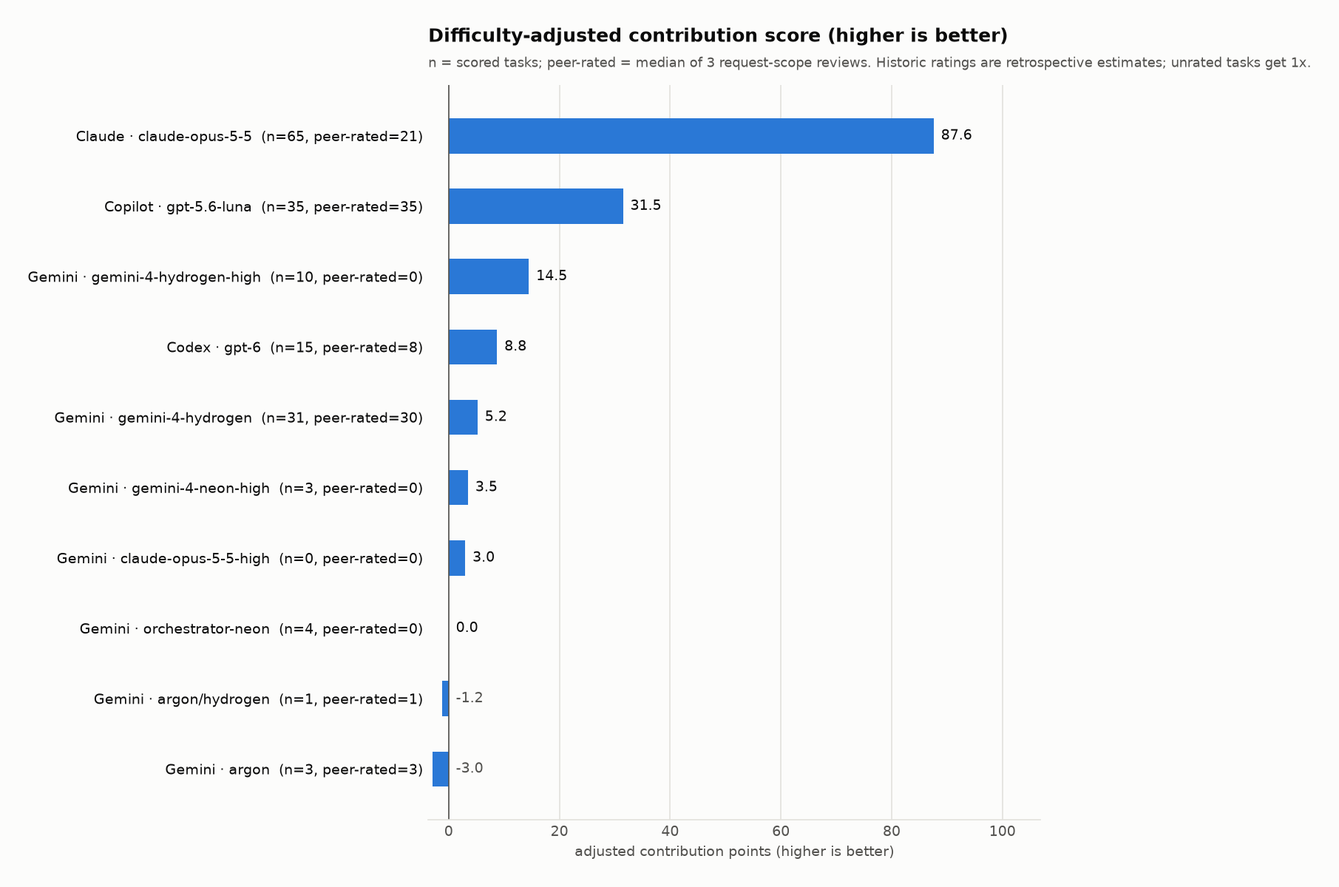
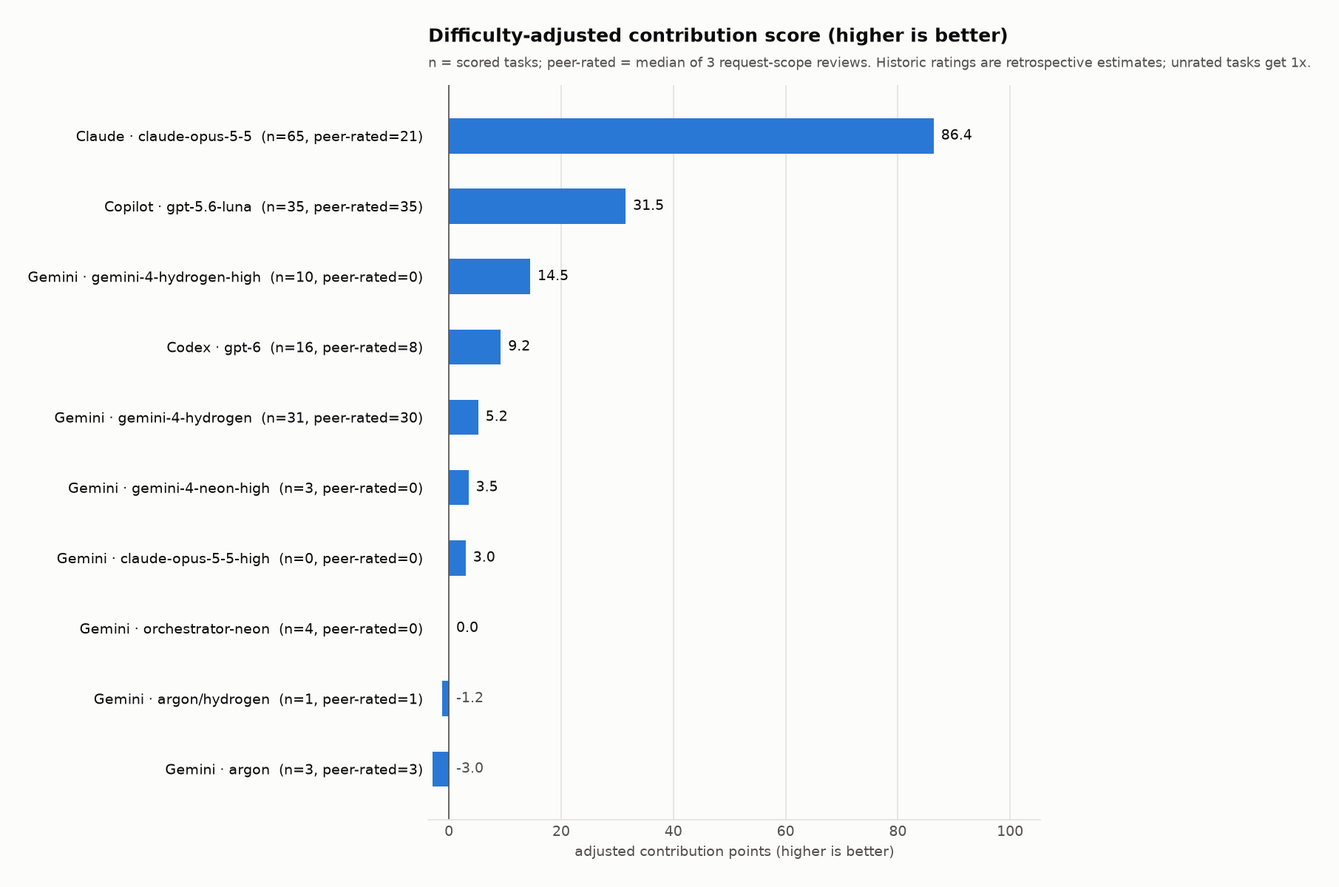
Stop indoor rain particle effects

diff --git a/Docs/Bot/bot-lab.html b/Docs/Bot/bot-lab.html
@@ -692,8 +692,8 @@ body.gifmode .wrap { display: none; }
           <div id="proto-desc" class="card" style="margin-top:4px"></div>
           <div class="readout">
             <div class="stat"><div class="k">Board rows</div><div class="v">B1–B85 + P1–P5</div></div>
-            <div class="stat"><div class="k">Ledger rows</div><div class="v">167 non-open task rows · 1 open · 70 bugs</div></div>
-            <div class="stat"><div class="k">Bugs caught before you</div><div class="v">38 of 70</div></div>
+            <div class="stat"><div class="k">Ledger rows</div><div class="v">168 non-open task rows · 1 open · 71 bugs</div></div>
+            <div class="stat"><div class="k">Bugs caught before you</div><div class="v">38 of 71</div></div>
             <div class="stat"><div class="k">Running now</div><div class="v">See AGENT_COORDINATION.md</div></div>
           </div>
         </div>
@@ -701,7 +701,7 @@ body.gifmode .wrap { display: none; }
     </section>
 <section id="ai-quality" class="bb" aria-labelledby="h-ai-quality">
       <div class="head"><span class="num">19 · MEASURE</span><h2 id="h-ai-quality">Who wrote what, and what broke</h2><span class="src">data/tasks.csv · data/bugs.csv · analysis/analyze.py</span>
-        <p>The current ledgers contain 168 task rows (167 non-open, 1 open) and 70 bug rows. Tasks retain agent/model and source evidence; bug records distinguish escaped defects, review catches, and pre-push breaks. Scores use peer-rated task difficulty (B66). There is no hour-based score: measured active duration, exact context resets, and raw client API tokens are not exported to this repository, so missing telemetry stays unrecorded.</p></div>
+        <p>The current ledgers contain 169 task rows (168 non-open, 1 open) and 71 bug rows. Tasks retain agent/model and source evidence; bug records distinguish escaped defects, review catches, and pre-push breaks. Scores use peer-rated task difficulty (B66). There is no hour-based score: measured active duration, exact context resets, and raw client API tokens are not exported to this repository, so missing telemetry stays unrecorded.</p></div>
       <div class="instrument">
         <canvas id="cv-quality" aria-label="Bar chart of contribution score and defect rates by agent and model"></canvas>
         <div class="controls">
@@ -731,10 +731,10 @@ body.gifmode .wrap { display: none; }
             </tr>
           </thead>
           <tbody>
-            <tr style="border-bottom:1px solid var(--line)"><td style="padding:6px 8px"><b>Claude</b> · Claude Code</td><td style="padding:6px 8px">claude-opus-5-5</td><td style="padding:6px 8px">11-16 11:19 → 11-19 01:16 (ET; first/last evidence, not work duration)</td><td style="padding:6px 8px">6 documented limit/stop events; exact context-reset count not recorded. 104 developer/board prompt sections.</td><td style="padding:6px 8px">65 rows (65 non-open); 12 escaped attributed; 19 review + 3 pre-push findings</td><td style="padding:6px 8px">Raw API token totals and measured active work time are tool-unreported.</td></tr>
+            <tr style="border-bottom:1px solid var(--line)"><td style="padding:6px 8px"><b>Claude</b> · Claude Code</td><td style="padding:6px 8px">claude-opus-5-5</td><td style="padding:6px 8px">11-16 11:19 → 11-19 01:16 (ET; first/last evidence, not work duration)</td><td style="padding:6px 8px">6 documented limit/stop events; exact context-reset count not recorded. 104 developer/board prompt sections.</td><td style="padding:6px 8px">65 rows (65 non-open); 13 escaped attributed; 19 review + 3 pre-push findings</td><td style="padding:6px 8px">Raw API token totals and measured active work time are tool-unreported.</td></tr>
             <tr style="border-bottom:1px solid var(--line)"><td style="padding:6px 8px"><b>Gemini</b> · Antigravity</td><td style="padding:6px 8px">argon; argon/hydrogen; gemini-4-hydrogen; gemini-4-hydrogen-high; gemini-4-neon-high; orchestrator-neon; claude-opus-5-5-high</td><td style="padding:6px 8px">11-16 23:44 → 11-18 22:09 (ET; first/last evidence, not work duration)</td><td style="padding:6px 8px">2 documented quota events: Argon → Hydrogen at 02:24; old Hydrogen-high conversation rejected at 09:20 (157h30m reset), new conversation at 09:22. Exact context-reset count not recorded. 88 developer/board sections + 4 Claude-to-Gemini handoff sections.</td><td style="padding:6px 8px">53 rows (52 non-open, 1 open); 11 escaped attributed; 9 review + 0 pre-push findings</td><td style="padding:6px 8px">Raw API token totals and measured active work time are tool-unreported.</td></tr>
             <tr style="border-bottom:1px solid var(--line)"><td style="padding:6px 8px"><b>Copilot</b> · GitHub Copilot Chat</td><td style="padding:6px 8px">gpt-5.6-luna</td><td style="padding:6px 8px">11-17 23:12 → 11-18 02:40 (ET; first/last evidence, not work duration)</td><td style="padding:6px 8px">1 user-reported monthly limit stop at 02:40; exact context-reset count not recorded. 1 developer/board section + 4 agent-to-Copilot prompt sections.</td><td style="padding:6px 8px">35 rows (35 non-open, 3 reopened, 1 partial); 2 escaped attributed; 6 review + 0 pre-push findings</td><td style="padding:6px 8px">Raw API token totals and measured active work time are tool-unreported.</td></tr>
-            <tr style="border-bottom:1px solid var(--line)"><td style="padding:6px 8px"><b>Codex</b> · OpenAI Codex</td><td style="padding:6px 8px">gpt-6</td><td style="padding:6px 8px">11-18 01:54 → 11-19 02:50 (ET; first/last evidence, not work duration)</td><td style="padding:6px 8px">No limit-stop event recorded in the available sources; exact context-reset count not recorded. 0 headings routed to Codex in PROMPTS.md; direct user requests are not captured in that file.</td><td style="padding:6px 8px">15 rows (15 non-open, 2 reopened); 0 escaped attributed; 1 review + 0 pre-push findings</td><td style="padding:6px 8px">Raw API token totals and measured active work time are tool-unreported.</td></tr>
+            <tr style="border-bottom:1px solid var(--line)"><td style="padding:6px 8px"><b>Codex</b> · OpenAI Codex</td><td style="padding:6px 8px">gpt-6</td><td style="padding:6px 8px">11-18 01:54 → 11-19 03:17 (ET; first/last evidence, not work duration)</td><td style="padding:6px 8px">No limit-stop event recorded in the available sources; exact context-reset count not recorded. 0 headings routed to Codex in PROMPTS.md; direct user requests are not captured in that file.</td><td style="padding:6px 8px">16 rows (16 non-open, 2 reopened); 0 escaped attributed; 1 review + 0 pre-push findings</td><td style="padding:6px 8px">Raw API token totals and measured active work time are tool-unreported.</td></tr>
           </tbody>
           </table>
 
@@ -746,7 +746,7 @@ body.gifmode .wrap { display: none; }
           <tbody>
             <tr><td class="num">v1: before 11-17 23:25</td><td class="num">23</td><td class="num">13.8</td><td class="num">6.0</td><td class="num">1</td><td class="num">0.4</td></tr>
             <tr><td class="num">v2: 11-17 23:25 to 11-18 00:05</td><td class="num">15</td><td class="num">2.0</td><td class="num">1.3</td><td class="num">8</td><td class="num">5.3</td></tr>
-            <tr><td class="num">v3: after 11-18 00:05</td><td class="num">129</td><td class="num">9.9</td><td class="num">0.8</td><td class="num">29</td><td class="num">2.2</td></tr>
+            <tr><td class="num">v3: after 11-18 00:05</td><td class="num">130</td><td class="num">10.5</td><td class="num">0.8</td><td class="num">29</td><td class="num">2.2</td></tr>
           </tbody>
           </table>
         <p class="note">Regenerated from the current task and bug ledgers on 2026-11-19; attribution gaps remain visible instead of being assigned to a model.</p>
@@ -2734,10 +2734,10 @@ requestAnimationFrame(frame);
 
   // ---------------- TAB 3: QUALITY METRICS CHART (ledger-derived, no time estimates) ----------------
   const QUALITY_ROWS = [
-    {"lbl": "Claude · opus-5-5", "score": 87.6, "tasks": 65, "escaped": 1.5, "caught": 22, "c": "#b388ff"},
+    {"lbl": "Claude · opus-5-5", "score": 86.4, "tasks": 65, "escaped": 1.6, "caught": 22, "c": "#b388ff"},
     {"lbl": "Copilot · gpt-5.6-luna", "score": 31.5, "tasks": 35, "escaped": 0.6, "caught": 6, "c": "#5cc46a"},
     {"lbl": "Gemini · hydrogen-high", "score": 14.5, "tasks": 10, "escaped": 0.0, "caught": 6, "c": "#47d9ff"},
-    {"lbl": "Codex · gpt-6", "score": 8.8, "tasks": 15, "escaped": 0.0, "caught": 1, "c": "#2dd4bf"},
+    {"lbl": "Codex · gpt-6", "score": 9.2, "tasks": 16, "escaped": 0.0, "caught": 1, "c": "#2dd4bf"},
     {"lbl": "Gemini · hydrogen", "score": 5.2, "tasks": 31, "escaped": 1.4, "caught": 1, "c": "#6eaee6"},
     {"lbl": "Gemini · neon-high", "score": 3.5, "tasks": 3, "escaped": 0.0, "caught": 1, "c": "#e8a33d"},
     {"lbl": "Gemini · opus-5-5-high", "score": 3.0, "tasks": 0, "escaped": 0.0, "caught": 0, "c": "#e2b54a"},
@@ -2771,6 +2771,7 @@ requestAnimationFrame(frame);
 
   // ---------------- TAB 3: TASK LOG WITH SOURCE ----------------
   const TASKS_LOG = [
+    {"id": "X16", "when": "2026-11-19 03:17", "agent": "Codex", "board": "B108", "task": "Stop rain streaks appearing inside roofed spaces", "src": "user request 03:10; WeatherSystem indoor roof-probe gating; BuildAllAndPlayerBatch succeeded 03:16"},
     {"id": "X14", "when": "2026-11-19 02:32", "agent": "Codex", "board": "B107", "task": "Slower distinct weapon fire rates with damage tuned to keep body TTK close", "src": "user request 02:22; five distinct WeaponSpec rates + damage thresholds; standalone player build succeeded 02:56"},
     {"id": "X15", "when": "2026-11-19 02:32", "agent": "Codex", "board": "B91", "task": "Apply ADS sway reduction through active Kinemation SwayLayer profile settings", "src": "user reported prior sway change did not help; LR2ContentBuilder persists 22% ADS mask"},
     {"id": "X11", "when": "2026-11-19 02:06", "agent": "Codex", "board": "B91", "task": "Tune ADS sway in Kinemation humanoid profiles with much lower vertical weapon movement", "src": "user said the sway change did not help; direct profile assets are ignored by git and were not a durable build setting"},

diff --git a/Docs/Bot/src/bot-lab.html b/Docs/Bot/src/bot-lab.html
@@ -682,8 +682,8 @@ body.gifmode .wrap { display: none; }
           <div id="proto-desc" class="card" style="margin-top:4px"></div>
           <div class="readout">
             <div class="stat"><div class="k">Board rows</div><div class="v">B1–B85 + P1–P5</div></div>
-            <div class="stat"><div class="k">Ledger rows</div><div class="v">167 non-open task rows · 1 open · 70 bugs</div></div>
-            <div class="stat"><div class="k">Bugs caught before you</div><div class="v">38 of 70</div></div>
+            <div class="stat"><div class="k">Ledger rows</div><div class="v">168 non-open task rows · 1 open · 71 bugs</div></div>
+            <div class="stat"><div class="k">Bugs caught before you</div><div class="v">38 of 71</div></div>
             <div class="stat"><div class="k">Running now</div><div class="v">See AGENT_COORDINATION.md</div></div>
           </div>
         </div>
@@ -691,7 +691,7 @@ body.gifmode .wrap { display: none; }
     </section>
 <section id="ai-quality" class="bb" aria-labelledby="h-ai-quality">
       <div class="head"><span class="num">19 · MEASURE</span><h2 id="h-ai-quality">Who wrote what, and what broke</h2><span class="src">data/tasks.csv · data/bugs.csv · analysis/analyze.py</span>
-        <p>The current ledgers contain 168 task rows (167 non-open, 1 open) and 70 bug rows. Tasks retain agent/model and source evidence; bug records distinguish escaped defects, review catches, and pre-push breaks. Scores use peer-rated task difficulty (B66). There is no hour-based score: measured active duration, exact context resets, and raw client API tokens are not exported to this repository, so missing telemetry stays unrecorded.</p></div>
+        <p>The current ledgers contain 169 task rows (168 non-open, 1 open) and 71 bug rows. Tasks retain agent/model and source evidence; bug records distinguish escaped defects, review catches, and pre-push breaks. Scores use peer-rated task difficulty (B66). There is no hour-based score: measured active duration, exact context resets, and raw client API tokens are not exported to this repository, so missing telemetry stays unrecorded.</p></div>
       <div class="instrument">
         <canvas id="cv-quality" aria-label="Bar chart of contribution score and defect rates by agent and model"></canvas>
         <div class="controls">
@@ -721,10 +721,10 @@ body.gifmode .wrap { display: none; }
             </tr>
           </thead>
           <tbody>
-            <tr style="border-bottom:1px solid var(--line)"><td style="padding:6px 8px"><b>Claude</b> · Claude Code</td><td style="padding:6px 8px">claude-opus-5-5</td><td style="padding:6px 8px">11-16 11:19 → 11-19 01:16 (ET; first/last evidence, not work duration)</td><td style="padding:6px 8px">6 documented limit/stop events; exact context-reset count not recorded. 104 developer/board prompt sections.</td><td style="padding:6px 8px">65 rows (65 non-open); 12 escaped attributed; 19 review + 3 pre-push findings</td><td style="padding:6px 8px">Raw API token totals and measured active work time are tool-unreported.</td></tr>
+            <tr style="border-bottom:1px solid var(--line)"><td style="padding:6px 8px"><b>Claude</b> · Claude Code</td><td style="padding:6px 8px">claude-opus-5-5</td><td style="padding:6px 8px">11-16 11:19 → 11-19 01:16 (ET; first/last evidence, not work duration)</td><td style="padding:6px 8px">6 documented limit/stop events; exact context-reset count not recorded. 104 developer/board prompt sections.</td><td style="padding:6px 8px">65 rows (65 non-open); 13 escaped attributed; 19 review + 3 pre-push findings</td><td style="padding:6px 8px">Raw API token totals and measured active work time are tool-unreported.</td></tr>
             <tr style="border-bottom:1px solid var(--line)"><td style="padding:6px 8px"><b>Gemini</b> · Antigravity</td><td style="padding:6px 8px">argon; argon/hydrogen; gemini-4-hydrogen; gemini-4-hydrogen-high; gemini-4-neon-high; orchestrator-neon; claude-opus-5-5-high</td><td style="padding:6px 8px">11-16 23:44 → 11-18 22:09 (ET; first/last evidence, not work duration)</td><td style="padding:6px 8px">2 documented quota events: Argon → Hydrogen at 02:24; old Hydrogen-high conversation rejected at 09:20 (157h30m reset), new conversation at 09:22. Exact context-reset count not recorded. 88 developer/board sections + 4 Claude-to-Gemini handoff sections.</td><td style="padding:6px 8px">53 rows (52 non-open, 1 open); 11 escaped attributed; 9 review + 0 pre-push findings</td><td style="padding:6px 8px">Raw API token totals and measured active work time are tool-unreported.</td></tr>
             <tr style="border-bottom:1px solid var(--line)"><td style="padding:6px 8px"><b>Copilot</b> · GitHub Copilot Chat</td><td style="padding:6px 8px">gpt-5.6-luna</td><td style="padding:6px 8px">11-17 23:12 → 11-18 02:40 (ET; first/last evidence, not work duration)</td><td style="padding:6px 8px">1 user-reported monthly limit stop at 02:40; exact context-reset count not recorded. 1 developer/board section + 4 agent-to-Copilot prompt sections.</td><td style="padding:6px 8px">35 rows (35 non-open, 3 reopened, 1 partial); 2 escaped attributed; 6 review + 0 pre-push findings</td><td style="padding:6px 8px">Raw API token totals and measured active work time are tool-unreported.</td></tr>
-            <tr style="border-bottom:1px solid var(--line)"><td style="padding:6px 8px"><b>Codex</b> · OpenAI Codex</td><td style="padding:6px 8px">gpt-6</td><td style="padding:6px 8px">11-18 01:54 → 11-19 02:50 (ET; first/last evidence, not work duration)</td><td style="padding:6px 8px">No limit-stop event recorded in the available sources; exact context-reset count not recorded. 0 headings routed to Codex in PROMPTS.md; direct user requests are not captured in that file.</td><td style="padding:6px 8px">15 rows (15 non-open, 2 reopened); 0 escaped attributed; 1 review + 0 pre-push findings</td><td style="padding:6px 8px">Raw API token totals and measured active work time are tool-unreported.</td></tr>
+            <tr style="border-bottom:1px solid var(--line)"><td style="padding:6px 8px"><b>Codex</b> · OpenAI Codex</td><td style="padding:6px 8px">gpt-6</td><td style="padding:6px 8px">11-18 01:54 → 11-19 03:17 (ET; first/last evidence, not work duration)</td><td style="padding:6px 8px">No limit-stop event recorded in the available sources; exact context-reset count not recorded. 0 headings routed to Codex in PROMPTS.md; direct user requests are not captured in that file.</td><td style="padding:6px 8px">16 rows (16 non-open, 2 reopened); 0 escaped attributed; 1 review + 0 pre-push findings</td><td style="padding:6px 8px">Raw API token totals and measured active work time are tool-unreported.</td></tr>
           </tbody>
           </table>
 
@@ -736,7 +736,7 @@ body.gifmode .wrap { display: none; }
           <tbody>
             <tr><td class="num">v1: before 11-17 23:25</td><td class="num">23</td><td class="num">13.8</td><td class="num">6.0</td><td class="num">1</td><td class="num">0.4</td></tr>
             <tr><td class="num">v2: 11-17 23:25 to 11-18 00:05</td><td class="num">15</td><td class="num">2.0</td><td class="num">1.3</td><td class="num">8</td><td class="num">5.3</td></tr>
-            <tr><td class="num">v3: after 11-18 00:05</td><td class="num">129</td><td class="num">9.9</td><td class="num">0.8</td><td class="num">29</td><td class="num">2.2</td></tr>
+            <tr><td class="num">v3: after 11-18 00:05</td><td class="num">130</td><td class="num">10.5</td><td class="num">0.8</td><td class="num">29</td><td class="num">2.2</td></tr>
           </tbody>
           </table>
         <p class="note">Regenerated from the current task and bug ledgers on 2026-11-19; attribution gaps remain visible instead of being assigned to a model.</p>
@@ -2724,10 +2724,10 @@ requestAnimationFrame(frame);
 
   // ---------------- TAB 3: QUALITY METRICS CHART (ledger-derived, no time estimates) ----------------
   const QUALITY_ROWS = [
-    {"lbl": "Claude · opus-5-5", "score": 87.6, "tasks": 65, "escaped": 1.5, "caught": 22, "c": "#b388ff"},
+    {"lbl": "Claude · opus-5-5", "score": 86.4, "tasks": 65, "escaped": 1.6, "caught": 22, "c": "#b388ff"},
     {"lbl": "Copilot · gpt-5.6-luna", "score": 31.5, "tasks": 35, "escaped": 0.6, "caught": 6, "c": "#5cc46a"},
     {"lbl": "Gemini · hydrogen-high", "score": 14.5, "tasks": 10, "escaped": 0.0, "caught": 6, "c": "#47d9ff"},
-    {"lbl": "Codex · gpt-6", "score": 8.8, "tasks": 15, "escaped": 0.0, "caught": 1, "c": "#2dd4bf"},
+    {"lbl": "Codex · gpt-6", "score": 9.2, "tasks": 16, "escaped": 0.0, "caught": 1, "c": "#2dd4bf"},
     {"lbl": "Gemini · hydrogen", "score": 5.2, "tasks": 31, "escaped": 1.4, "caught": 1, "c": "#6eaee6"},
     {"lbl": "Gemini · neon-high", "score": 3.5, "tasks": 3, "escaped": 0.0, "caught": 1, "c": "#e8a33d"},
     {"lbl": "Gemini · opus-5-5-high", "score": 3.0, "tasks": 0, "escaped": 0.0, "caught": 0, "c": "#e2b54a"},
@@ -2761,6 +2761,7 @@ requestAnimationFrame(frame);
 
   // ---------------- TAB 3: TASK LOG WITH SOURCE ----------------
   const TASKS_LOG = [
+    {"id": "X16", "when": "2026-11-19 03:17", "agent": "Codex", "board": "B108", "task": "Stop rain streaks appearing inside roofed spaces", "src": "user request 03:10; WeatherSystem indoor roof-probe gating; BuildAllAndPlayerBatch succeeded 03:16"},
     {"id": "X14", "when": "2026-11-19 02:32", "agent": "Codex", "board": "B107", "task": "Slower distinct weapon fire rates with damage tuned to keep body TTK close", "src": "user request 02:22; five distinct WeaponSpec rates + damage thresholds; standalone player build succeeded 02:56"},
     {"id": "X15", "when": "2026-11-19 02:32", "agent": "Codex", "board": "B91", "task": "Apply ADS sway reduction through active Kinemation SwayLayer profile settings", "src": "user reported prior sway change did not help; LR2ContentBuilder persists 22% ADS mask"},
     {"id": "X11", "when": "2026-11-19 02:06", "agent": "Codex", "board": "B91", "task": "Tune ADS sway in Kinemation humanoid profiles with much lower vertical weapon movement", "src": "user said the sway change did not help; direct profile assets are ignored by git and were not a durable build setting"},

diff --git a/Assets/LR2/Runtime/World/WeatherSystem.cs b/Assets/LR2/Runtime/World/WeatherSystem.cs
@@ -112,6 +112,7 @@ namespace LR2.World
         private AudioClip _procThunderClip;
         private ParticleSystem.EmitParams _splashEmit;
         private ParticleSystem _rainNear; // B93
+        private bool _cameraIndoors;
         private ParticleSystem.EmitParams _rippleEmit;
         private float _splashAcc;
         private readonly VisorDrop[] _visorDrops = new VisorDrop[18];
@@ -275,33 +276,43 @@ namespace LR2.World
 
         private void UpdateRain(float amount)
         {
+            var cam = Camera.main;
+            _cameraIndoors = cam != null && LR2Audio.IsIndoors(cam.transform.position);
+            float visibleRain = _cameraIndoors ? 0f : amount;
+
             if (rain != null)
             {
-                var cam = Camera.main;
-                if (cam != null) rain.transform.position = cam.transform.position + Vector3.up * 14f + cam.transform.forward * 5f;
+                // The camera-following volume otherwise drops below roofs and spawns rain indoors.
+                if (cam != null && !_cameraIndoors)
+                    rain.transform.position = cam.transform.position + Vector3.up * 14f + cam.transform.forward * 5f;
                 var em = rain.emission;
-                em.rateOverTime = amount * maxRainRate;
+                em.rateOverTime = visibleRain * maxRainRate;
                 var vel = rain.velocityOverLifetime;
                 float wx = Wind * 3.4f;
                 vel.x = new ParticleSystem.MinMaxCurve(wx * 0.85f, wx * 1.15f);
                 vel.y = new ParticleSystem.MinMaxCurve(-22f, -18f);
                 vel.z = new ParticleSystem.MinMaxCurve(-0.35f, 0.35f);
-                if (amount > 0.01f && !rain.isPlaying) rain.Play();
+                if (_cameraIndoors && (rain.isPlaying || rain.particleCount > 0))
+                    rain.Stop(true, ParticleSystemStopBehavior.StopEmittingAndClear);
+                else if (visibleRain > 0.01f && !rain.isPlaying) rain.Play();
                 else if (amount <= 0.01f && rain.isPlaying) rain.Stop();
                 if (_rainNear != null)
                 {
-                    if (cam != null) _rainNear.transform.position = cam.transform.position + Vector3.up * 5f + cam.transform.forward * 2.5f;
+                    if (cam != null && !_cameraIndoors)
+                        _rainNear.transform.position = cam.transform.position + Vector3.up * 5f + cam.transform.forward * 2.5f;
                     var nem = _rainNear.emission;
-                    nem.rateOverTime = amount * 950f;
+                    nem.rateOverTime = visibleRain * 950f;
                     var nv = _rainNear.velocityOverLifetime;
                     nv.x = new ParticleSystem.MinMaxCurve(wx * 0.85f, wx * 1.15f);
-                    if (amount > 0.01f && !_rainNear.isPlaying) _rainNear.Play();
+                    if (_cameraIndoors && (_rainNear.isPlaying || _rainNear.particleCount > 0))
+                        _rainNear.Stop(true, ParticleSystemStopBehavior.StopEmittingAndClear);
+                    else if (visibleRain > 0.01f && !_rainNear.isPlaying) _rainNear.Play();
                     else if (amount <= 0.01f && _rainNear.isPlaying) _rainNear.Stop();
                 }
             }
             if (_rainSource != null)
             {
-                bool indoors = LR2Audio.IsIndoors(LR2Audio.ListenerPosition);
+                bool indoors = cam != null ? _cameraIndoors : LR2Audio.IsIndoors(LR2Audio.ListenerPosition);
                 float mix = LR2Audio.CategoryVolume(AudioCategory.Ambience) / 0.68f;
                 _rainSource.volume = Mathf.Lerp(_rainSource.volume, amount * rainVolume * mix * (indoors ? 0.45f : 1f), Time.deltaTime * 2f);
                 var lp = _rainSource.GetComponent<AudioLowPassFilter>();
@@ -331,7 +342,6 @@ namespace LR2.World
             if (Time.time >= _thunderRainUntil) _thunderStart = Time.time;
             _thunderRainUntil = Mathf.Max(_thunderRainUntil, Time.time + Mathf.Max(4f, durationSec));
             _thunderRainBoost = Mathf.Max(_thunderRainBoost, Mathf.Clamp01(intensity));
-            if (rain != null && !rain.isPlaying) rain.Play();
             if (withFlash) _flash = Mathf.Max(_flash, 0.75f);
         }
 
@@ -536,6 +546,11 @@ namespace LR2.World
             if (rainAmount <= 0.04f || _splashBurstPS == null || _puddleRipplePS == null) return;
             var cam = Camera.main;
             if (cam == null) return;
+            if (_cameraIndoors)
+            {
+                _splashAcc = 0f;
+                return;
+            }
 
             // Emit real ground crown splashes & concentric water ripples strictly on outdoor surfaces
             float targetPerSec = Mathf.Lerp(60f, 340f, rainAmount); // B97: splashes you can see (10-90/s before)
@@ -748,8 +763,7 @@ namespace LR2.World
             var cam = Camera.main;
             if (cam == null) return;
             // Subtle peripheral visor droplets only when outdoors under open rain
-            if (Physics.Raycast(cam.transform.position + Vector3.up * 0.25f, Vector3.up, 28f, LR2.Core.LR2Layers.EnvironmentMask, QueryTriggerInteraction.Ignore))
-                return;
+            if (_cameraIndoors) return;
 
             if (!_visorInited)
             {

diff --git a/Assets/LR2/Editor/LR2BuildPipeline.cs b/Assets/LR2/Editor/LR2BuildPipeline.cs
@@ -159,7 +159,7 @@ namespace LR2.EditorTools
         [MenuItem("LR2/Configure Build Icon & Version", priority = 35)]
         public static void ConfigureBuildIdentity()
         {
-            PlayerSettings.bundleVersion = "11.19.26.2";
+            PlayerSettings.bundleVersion = "11.19.26.3";
             const string iconPath = "Assets/LR2/UI/Icons/LR2_AppIcon.png";
             Directory.CreateDirectory(Path.GetDirectoryName(iconPath));
             if (!File.Exists(iconPath))

diff --git a/AGENT_COORDINATION.md b/AGENT_COORDINATION.md
@@ -94,8 +94,8 @@ Active now: **Claude** (back) and **Codex**. Gemini and Copilot are out. New spl
 
 ## 1. Now
 
-UNITY: free (Codex isolated worker PID 20504 exited 02:56; BuildAllAndPlayerBatch/player result Succeeded)
-PUSH: 14f1ccd by Codex 02:59 (B87/B91/B107 + B56; 11.19.26.2 BuildAllAndPlayerBatch succeeded 02:56; 4 headless RenderTexture.Create errors; visual feel review pending)
+UNITY: free (isolated worker PID 18048 exited; main editor PID 55788 remains open)
+PUSH: previous 14f1ccd/4544d77 by Codex; B108 11.19.26.3 player build succeeded 03:16, scoped commit/push pending
 BUDGET: Claude OK (back 04:13) · Gemini OK (09:23) · Copilot ? · Codex OK (02:50)   <- each agent edits its own part: OK / LOW / OUT until HH:MM. At LOW, hand off first (Docs/AI_Collaboration/CONTINUITY.md).
 
 | Agent | State | Doing now | Next | Updated |
@@ -103,7 +103,7 @@ BUDGET: Claude OK (back 04:13) · Gemini OK (09:23) · Copilot ? · Codex OK (02
 | Claude | IN PROGRESS | User 00:27 batch, all other models down: B90 movement, B91 ADS sight, B89 bot overshoot/pre-fire, B88 score panel, B96 minimap, B100 CTF zone, B87 fire, B93 rain, B97 particles, B92 lights, B99 floating props, B95/B98 audio, B94 tac reload, B26 fingers | Push at every stable point; build 11.18.26.7 when Unity is free | 00:31 |
 | Gemini (LEAD) | DOWN (user 00:13: "all other models are down") | User 21:56 request: 2x ADS in/out & FOV zoom sync across all 5 weapons (`WeaponDefinition`, `LR2ContentBuilder`, `LR2Firearm`, `SoldierController`, `LR2QAExtraChecks`/`LR2QABotRunner`); `dotnet build` 0 errors; running `BuildWeapons` + visible `Saltworks` QA | Release `UNITY:` lock, inspect QA telemetry, confirm feel/player build request with user | 00:31 (Claude) |
 | Copilot | IN PROGRESS | B54 evidence corrected/pushed; visible pose check #7 captured AK-12 + MK23 evidence; Codex auditing README | Checkpoint: B60.1 baseline CSV + B60.9 known-bad fixtures compile; standalone player build succeeded; push in progress | 02:25 |
-| Codex | IN PROGRESS | B91: removed forced post-animation correction; durable Kinemation ADS mask with move Y -0.15 and aim Y -0.12. B87 luminance-derived smoke alpha. B107 distinct slower rates + retuned damage. B56 docs refreshed from ledgers. | record successful player build, commit scoped changes, then push | 02:59 |
+| Codex | READY FOR REVIEW | B108: camera-following rain, splashes, and visor drops are suppressed indoors; Runtime + Editor compile cleanly; BuildAllAndPlayerBatch succeeded (11.19.26.3). | user visual review in a roofed area; push scoped fix | 03:17 |
 
 ## 2. Needs the user
 
@@ -254,6 +254,7 @@ task quality per agent and model (chart in [Docs/AI_Collaboration](Docs/AI_Colla
 | B105 | feature | Realistic banter: censored slang only sometimes, gg at match end, less often (user 01:0x) | Claude | claude-opus-5-5 | - | READY FOR REVIEW | - | 01:13 | Clean + spicy pools (~25 %), revenge/streak lines, gg from 2-4 bots, 9-15 s global gap, 25-40 s per bot. |
 | B106 | feature | Improve the look of the laser (user 01:1x) | Claude | claude-opus-5-5 | - | OPEN | - | 01:13 | WeaponLaser beam + dot. |
 | B107 | tune | Slow all weapon fire rates to distinct game cadences and preserve body-shot TTK with damage tuning (user 02:22) | Codex | gpt-6 | user | READY FOR REVIEW | - | 02:59 | `LR2ContentBuilder.Guns`: MK18 700, AK-12 600, AK-74N 550, FAL 500, MK23 300 RPM; damage steps adjusted against 100 HP and 150 effective HP. Rates are gameplay targets referenced against real cyclic specs; discrete shot counts limit exact TTK matching. Standalone player build succeeded; body-shot feel remains for review. See `specs/B107_Weapon_FireRate_TTK.md`. |
+| B108 | bug | Rain streaks show inside roofed spaces | Codex | gpt-6 | user | READY FOR REVIEW | D71 | 03:10 | Camera-following high and near rain emitters now stop and clear under roofs detected by `LR2Audio.IsIndoors`; indoor splashes and visor drops are suppressed. Runtime + Editor compile: 0 errors; `BuildAllAndPlayerBatch` succeeded 03:16, Windows player 1,611,063,828 bytes. |
 
 ## 4. Ownership (who may edit what)
 
@@ -274,6 +275,7 @@ task quality per agent and model (chart in [Docs/AI_Collaboration](Docs/AI_Colla
 | README screenshots | Gemini captures, Claude picks | `Docs/Media/*` |
 | **Temporary user-requested B67a thermal VFX handoff** (03:39) | Codex | Thermal effects only in `Runtime/Weapons/LR2Firearm.cs`; new `Runtime/FX/HeatHazeEmitter.cs`; flame haze in `Runtime/World/FireHazard.cs` |
 | **Temporary user-requested B70 ADS FOV pacing handoff** (04:02) | Codex | ADS camera transition duration in `Runtime/Weapons/LR2Firearm.cs`; preserve the unrelated Gemini tactical-reload edit |
+| **Temporary user-requested B108 indoor-rain handoff** (03:10) | Codex | `Runtime/World/WeatherSystem.cs`; preserve the outdoor rain, wetness, and weather-audio behavior |
 | **Temporary user-requested B71 death-pose reset handoff** (04:10) | Claude | Reset only reload bridge, retarget inertial/plant history, and camera FOV cache across death/respawn; preserve active Copilot B60b foot-plant edits |
 | **Temporary user-requested B68a laser visibility handoff** (03:41) | Codex | Visibility tuning only in `Runtime/Weapons/WeaponLaser.cs`; preserve green friendly/red enemy palette |
 | **Temporary user-requested B69 TDM label handoff** (03:41) | Codex | Remove the `[CUSTOM]` suffix only from TDM in `Runtime/UI/MainMenuController.cs`; preserve custom rules |
@@ -657,3 +659,5 @@ You are **Codex** (OpenAI Codex CLI / VS Code agent), the fourth agent on the **
 - [Claude claude-opus-5-5 01:13] [READY FOR REVIEW] User batch 00:27-01:17: B87, B88, B89, B90, B91, B93, B96, B97, B100, B101, B105 in code and built; B98 partly (AK reload clips trimmed). OPEN for the next session: B26 grip offsets (C27 data), B92 lights, B94 AK tac reload, B95 grunts/audio, B99 floating props, B102 gun blood, B104 READMEs, B106 laser. The user is near their token limit: push + player build first.
 - [Codex gpt-6 01:32] [OWNERSHIP] [REOPENED] D70: `AdsSightLock` moved the weapon without moving RetargetProxy's visible hand-IK targets; same rigid correction now reaches both hands. Runtime + Editor builds: 0 errors; visible Unity pose review remains.
 - [Codex gpt-6 02:59] [BUILD] [PUSH] `14f1ccd` pushed to `origin/main`; `BuildAllAndPlayerBatch` exited `0`, Windows player result `Succeeded` (4 headless `RenderTexture.Create failed` messages). B87 smoke, B91 ADS sway, and B107 cadence/TTK are ready for user review; Unity lock released.
+- [Codex gpt-6 03:10] [USER HANDOFF] B108: remove camera-following rain from roofed spaces; temporary weather ownership accepted from Gemini while Gemini is down.
+- [Codex gpt-6 03:17] [READY FOR REVIEW] B108: roof probe stops and clears both rain particle systems and suppresses splashes/visor drops indoors. Runtime + Editor compile cleanly; isolated `BuildAllAndPlayerBatch` succeeded at 03:16 (Windows player 1,611,063,828 bytes). D71 marked fixed; visual review still needed. Unity worker PID 18048 exited; main Editor PID 55788 remains open.

diff --git a/Docs/AI_Collaboration/README.md b/Docs/AI_Collaboration/README.md
@@ -301,10 +301,11 @@ another agent stopped it first.
 </picture>
 
 | Agent / model | Raw score | Difficulty-adjusted score | Task rows (non-open / open / reopened) | Peer-rated tasks (retro / pre-work) | Weighted task credit | Bugs found (others / own) | Suggestions (adopted / pending) | Escaped defects, weighted (count) | Escaped per 10 tasks | Review defects in owned work | Pre-push defects in owned work |
-| Claude · claude-opus-5-5 | 87.6 | **87.6** | 65 / 0 / 0 | 21 (21 / 0) | 19.50 | 17 / 5 | 10 / 2 | 9.7 (12) | 1.5 | 7 | 2 |
+|---|---|---|---|---|---|---|---|---|---|---|---|
+| Claude · claude-opus-5-5 | 86.4 | **86.4** | 65 / 0 / 0 | 21 (21 / 0) | 19.50 | 17 / 5 | 10 / 2 | 10.3 (13) | 1.6 | 7 | 2 |
 | Copilot · gpt-5.6-luna | 32.5 | **31.5** | 35 / 0 / 3 | 35 (35 / 0) | 20.50 | 6 / 0 | 0 / 0 | 2.0 (2) | 0.6 | 6 | 0 |
 | Gemini · gemini-4-hydrogen-high | 14.5 | **14.5** | 10 / 0 / 0 | 0 (0 / 0) | 4.50 | 0 / 6 | 0 / 0 | 0.0 (0) | 0.0 | 4 | 0 |
-| Codex · gpt-6 | 8.5 | **8.8** | 15 / 0 / 2 | 8 (8 / 0) | 6.75 | 1 / 0 | 0 / 0 | 0.0 (0) | 0.0 | 2 | 0 |
+| Codex · gpt-6 | 9.0 | **9.2** | 16 / 0 / 2 | 8 (8 / 0) | 7.25 | 1 / 0 | 0 / 0 | 0.0 (0) | 0.0 | 2 | 0 |
 | Gemini · gemini-4-hydrogen | 3.1 | **5.2** | 31 / 1 / 0 | 30 (30 / 0) | 14.62 | 1 / 0 | 0 / 0 | 4.2 (6) | 1.4 | 8 | 0 |
 | Gemini · gemini-4-neon-high | 3.5 | **3.5** | 3 / 0 / 0 | 0 (0 / 0) | 0.50 | 1 / 0 | 0 / 0 | 0.0 (0) | 0.0 | 0 | 0 |
 | Gemini · claude-opus-5-5-high | 3.0 | **3.0** | 0 / 0 / 0 | 0 (0 / 0) | 0.00 | 0 / 0 | 1 / 0 | 0.0 (0) | 0.0 | 0 | 0 |
@@ -331,9 +332,9 @@ another agent stopped it first.
 | **Claude** (Claude Code) | claude-opus-5-5 | 11-16 11:19 → 11-19 01:16 (ET; first/last evidence, not work duration) | 6 documented limit/stop events; exact context-reset count not recorded. 104 developer/board prompt sections. | 65 task rows (65 non-open); 12 attributed escaped defects; 19 review + 3 pre-push findings (17 others / 5 own) | Raw API token totals and measured active work time are tool-unreported. |
 | **Gemini** (Antigravity) | argon; argon/hydrogen; gemini-4-hydrogen; gemini-4-hydrogen-high; gemini-4-neon-high; orchestrator-neon; claude-opus-5-5-high | 11-16 23:44 → 11-18 22:09 (ET; first/last evidence, not work duration) | 2 documented quota events: Argon → Hydrogen at 02:24; old Hydrogen-high conversation rejected at 09:20 (157h30m reset), new conversation at 09:22. Exact context-reset count not recorded. 88 developer/board sections + 4 Claude-to-Gemini handoff sections. | 53 task rows (52 non-open; 1 open); 11 attributed escaped defects; 9 review + 0 pre-push findings (2 others / 7 own) | Raw API token totals and measured active work time are tool-unreported. |
 | **Copilot** (GitHub Copilot Chat) | gpt-5.6-luna | 11-17 23:12 → 11-18 02:40 (ET; first/last evidence, not work duration) | 1 user-reported monthly limit stop at 02:40; exact context-reset count not recorded. 1 developer/board section + 4 agent-to-Copilot prompt sections. | 35 task rows (35 non-open; 3 reopened; 1 partial); 2 attributed escaped defects; 6 review + 0 pre-push findings (6 others / 0 own) | Raw API token totals and measured active work time are tool-unreported. |
-| **Codex** (OpenAI Codex) | gpt-6 | 11-18 01:54 → 11-19 02:50 (ET; first/last evidence, not work duration) | No limit-stop event recorded in the available sources; exact context-reset count not recorded. 0 headings routed to Codex in PROMPTS.md; direct user requests are not captured in that file. | 15 task rows (15 non-open; 2 reopened); 0 attributed escaped defects; 1 review + 0 pre-push findings (1 others / 0 own) | Raw API token totals and measured active work time are tool-unreported. |
+| **Codex** (OpenAI Codex) | gpt-6 | 11-18 01:54 → 11-19 03:17 (ET; first/last evidence, not work duration) | No limit-stop event recorded in the available sources; exact context-reset count not recorded. 0 headings routed to Codex in PROMPTS.md; direct user requests are not captured in that file. | 16 task rows (16 non-open; 2 reopened); 0 attributed escaped defects; 1 review + 0 pre-push findings (1 others / 0 own) | Raw API token totals and measured active work time are tool-unreported. |
 
-**Ledger scope:** the current files contain **168 task rows** (167 non-open, 1 open) and **70 bug rows**; 32 escaped, 35 review, and 3 pre-push. 38 defects were recorded before the developer saw them. Seven escaped rows currently have no causing agent attribution; those remain unassigned.
+**Ledger scope:** the current files contain **169 task rows** (168 non-open, 1 open) and **71 bug rows**; 33 escaped, 35 review, and 3 pre-push. 38 defects were recorded before the developer saw them. Seven escaped rows currently have no causing agent attribution; those remain unassigned.
 
 ## Complete Task Log with Source (`tasks.csv`)
 

diff --git a/Docs/AI_Collaboration/figures/summary.md b/Docs/AI_Collaboration/figures/summary.md
@@ -1,10 +1,10 @@
 <!-- generated by analysis/analyze.py from data/*.csv; do not edit by hand -->
 | Agent / model | Raw score | Difficulty-adjusted score | Task rows (non-open / open / reopened) | Peer-rated tasks (retro / pre-work) | Weighted task credit | Bugs found (others / own) | Suggestions (adopted / pending) | Escaped defects, weighted (count) | Escaped per 10 tasks | Review defects in owned work | Pre-push defects in owned work |
 |---|---|---|---|---|---|---|---|---|---|---|---|
-| Claude · claude-opus-5-5 | 87.6 | **87.6** | 65 / 0 / 0 | 21 (21 / 0) | 19.50 | 17 / 5 | 10 / 2 | 9.7 (12) | 1.5 | 7 | 2 |
+| Claude · claude-opus-5-5 | 86.4 | **86.4** | 65 / 0 / 0 | 21 (21 / 0) | 19.50 | 17 / 5 | 10 / 2 | 10.3 (13) | 1.6 | 7 | 2 |
 | Copilot · gpt-5.6-luna | 32.5 | **31.5** | 35 / 0 / 3 | 35 (35 / 0) | 20.50 | 6 / 0 | 0 / 0 | 2.0 (2) | 0.6 | 6 | 0 |
 | Gemini · gemini-4-hydrogen-high | 14.5 | **14.5** | 10 / 0 / 0 | 0 (0 / 0) | 4.50 | 0 / 6 | 0 / 0 | 0.0 (0) | 0.0 | 4 | 0 |
-| Codex · gpt-6 | 8.5 | **8.8** | 15 / 0 / 2 | 8 (8 / 0) | 6.75 | 1 / 0 | 0 / 0 | 0.0 (0) | 0.0 | 2 | 0 |
+| Codex · gpt-6 | 9.0 | **9.2** | 16 / 0 / 2 | 8 (8 / 0) | 7.25 | 1 / 0 | 0 / 0 | 0.0 (0) | 0.0 | 2 | 0 |
 | Gemini · gemini-4-hydrogen | 3.1 | **5.2** | 31 / 1 / 0 | 30 (30 / 0) | 14.62 | 1 / 0 | 0 / 0 | 4.2 (6) | 1.4 | 8 | 0 |
 | Gemini · gemini-4-neon-high | 3.5 | **3.5** | 3 / 0 / 0 | 0 (0 / 0) | 0.50 | 1 / 0 | 0 / 0 | 0.0 (0) | 0.0 | 0 | 0 |
 | Gemini · claude-opus-5-5-high | 3.0 | **3.0** | 0 / 0 / 0 | 0 (0 / 0) | 0.00 | 0 / 0 | 1 / 0 | 0.0 (0) | 0.0 | 0 | 0 |

diff --git a/Docs/AI_Collaboration/figures/tasks_log.md b/Docs/AI_Collaboration/figures/tasks_log.md
@@ -1,6 +1,7 @@
 <!-- generated by analysis/analyze.py from data/tasks.csv; shows the explicit origin/source of every task -->
 | ID | When (ET) | Agent / model | Board | Kind | Outcome | Difficulty | Rating timing | Rating basis | Task | Source (Prompt / Board / Evidence) |
 |---|---|---|---|---|---|---|---|---|---|---|
+| `X16` | 2026-11-19 03:17 | Codex / `gpt-6` | B108 | bug | ready-for-review | unrated | - | - | Stop rain streaks appearing inside roofed spaces | user request 03:10; WeatherSystem gates and clears both rain particle systems indoors and suppresses splashes and visor droplets; BuildAllAndPlayerBatch succeeded at 03:16 |
 | `C65` | 2026-11-19 01:16 | Claude / `claude-opus-5-5` | B98 | bug | delivered | unrated | - | - | Trimmed 83-164 ms lead-in from four AK reload clips | user prompt 00:27; onset analysis |
 | `C64` | 2026-11-19 01:12 | Claude / `claude-opus-5-5` | B87/B93 | bug | delivered | unrated | - | - | Boxy smoke root cause (flipbooks without alpha), radial heat-shimmer map, Saltworks opens in drizzle, FX shots harness | user prompt 01:10; C29 |
 | `C63` | 2026-11-19 01:08 | Claude / `claude-opus-5-5` | B93/B97/B101/B105/B91 | feature | delivered | unrated | - | - | Visible rain + near layer, splashes, footstep dust, cinematic post-processing, banter library, ADS camera bob filter | user prompts 00:27-01:06; e648bbf |

diff --git a/Docs/AI_Collaboration/RESEARCH_LOG.md b/Docs/AI_Collaboration/RESEARCH_LOG.md
@@ -76,6 +76,8 @@ Tags: `[BOARD]` change to the coordination format · `[HANDOFF]` · `[LIMIT]` us
 | 11-19 02:32 | `[USER][B107]` | Codex · gpt-6 | Slowed and separated the five weapon cadences (700/600/550/500/300 RPM) and retuned body damage thresholds to keep TTK near current values at 100 and 150 effective HP. Whole-shot timing means exact TTK cannot be held at every range; calculations and real-rate references are documented; Unity player build succeeded at 02:56. | `specs/B107_Weapon_FireRate_TTK.md`, `LR2ContentBuilder.cs` |
 | 11-19 02:32 | `[B56][METRIC-INTEGRITY]` | Codex · gpt-6 | Replaced elapsed-time/hour scores with explicit first/last timestamp evidence. Measured active hours, exact context resets and client token totals are unreported; regenerated Bot Lab/README counts and charts from current CSVs. | `analysis/analyze.py`, `figures/`, `Docs/Bot/bot-lab.html` |
 
+| 11-19 03:10 | `[USER][B108]` | developer | ?remove indoor rain?: high and near rain emitters follow the camera, so they spawned drops below roofs; visual precipitation and splashes will stop while sheltered. | `WeatherSystem.cs`, `D71` |
+
 ## Metrics
 
 The first three are computed by [`analysis/analyze.py`](analysis/analyze.py) from [`data/`](data/); charts in [`figures/`](figures/).

diff --git a/Docs/AI_Collaboration/figures/protocol_periods.md b/Docs/AI_Collaboration/figures/protocol_periods.md
@@ -3,4 +3,4 @@
 |---|---|---|---|---|---|
 | v1: before 11-17 23:25 | 23 | 13.8 | 6.0 | 1 | 0.4 |
 | v2: 11-17 23:25 to 11-18 00:05 | 15 | 2.0 | 1.3 | 8 | 5.3 |
-| v3: after 11-18 00:05 | 129 | 9.9 | 0.8 | 29 | 2.2 |
+| v3: after 11-18 00:05 | 130 | 10.5 | 0.8 | 29 | 2.2 |
